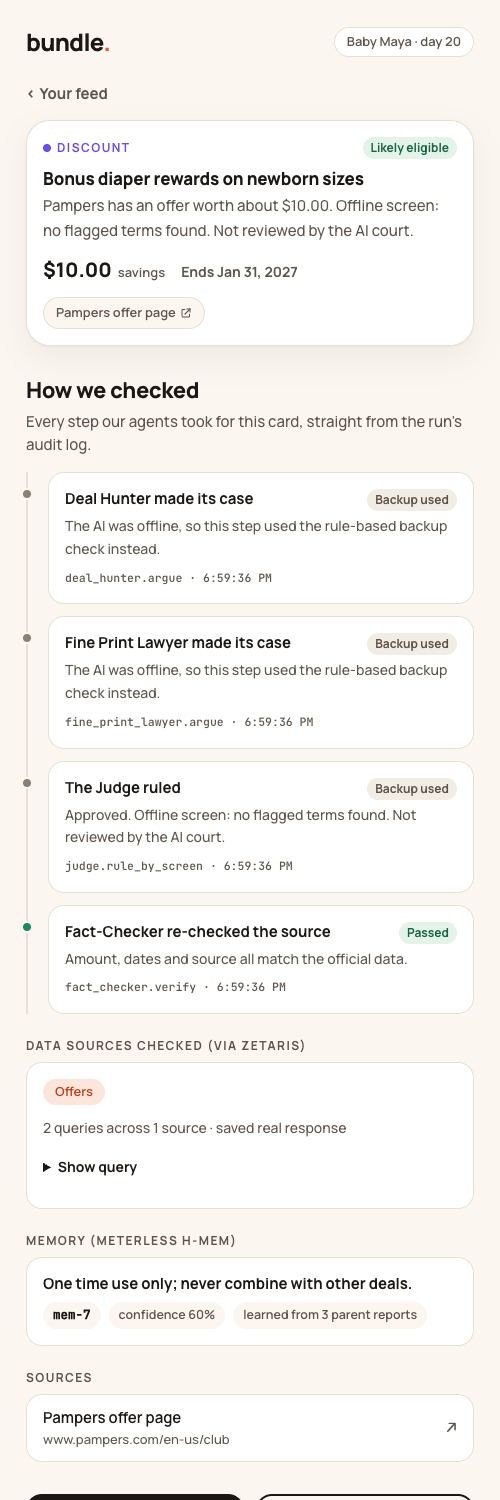
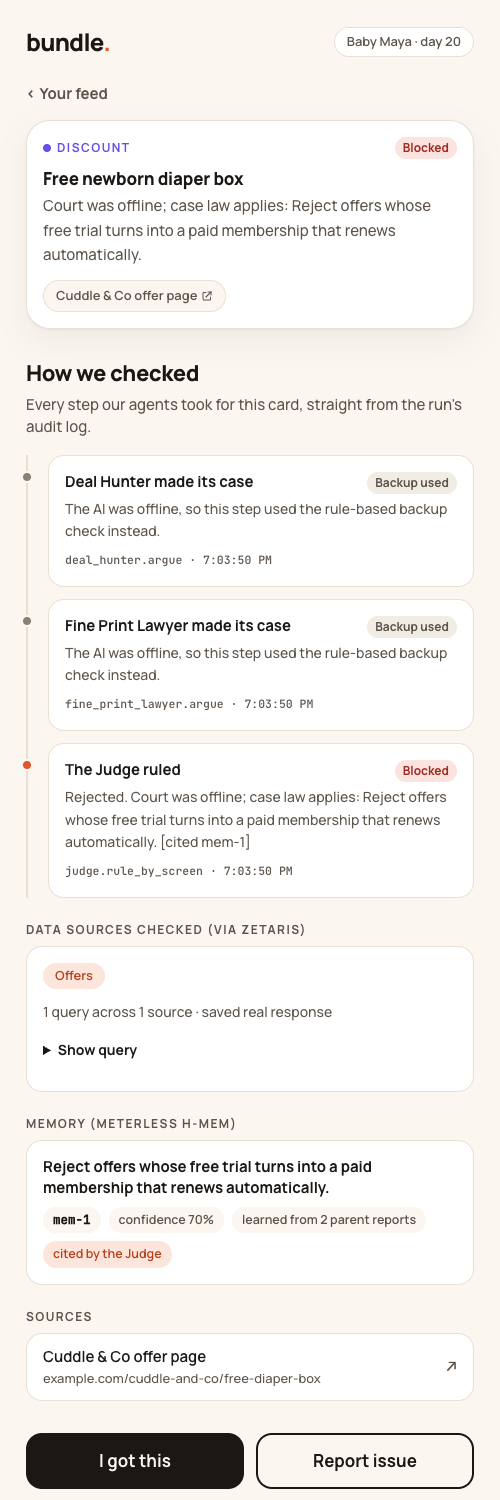
feat: show court-blocked offers (We caught these for you); sample mode never calls or writes live Zetaris

diff --git a/client/src/components/HowWeCheckedSections.tsx b/client/src/components/HowWeCheckedSections.tsx
@@ -1,6 +1,7 @@
 import type { FeedCard } from '@shared/bundle';
 import type { TraceLine } from '@/lib/bundle';
-import { zetarisForCard, memoryForCard } from '@/lib/howWeChecked';
+import { Link } from 'wouter';
+import { zetarisForCard, memoryForCard, blockedReason } from '@/lib/howWeChecked';
 
 const plural = (n: number, one: string, many: string) => `${n} ${n === 1 ? one : many}`;
 
@@ -53,6 +54,34 @@ export function MemorySection({ card, lines }: { card: FeedCard; lines: TraceLin
           </li>
         ))}
       </ul>
+    </section>
+  );
+}
+
+/** Collapsed "We caught these for you": offers the Fine Print Court rejected, with the learned rule it cited. Renders nothing when there are none. */
+export function CaughtForYou({ blocked, lines, href }: { blocked: FeedCard[]; lines: TraceLine[]; href: (id: string) => string }) {
+  if (blocked.length === 0) return null;
+  return (
+    <section className="mt-7" aria-label="We caught these for you" data-testid="caught-section">
+      <details className="rounded-2xl border border-line bg-paper px-4">
+        <summary className="flex min-h-[56px] cursor-pointer items-center justify-between gap-3 text-[16px] font-bold text-ink">
+          <span>We caught these for you</span>
+          <span className="rounded-full bg-[#FBE3E0] px-2.5 py-0.5 text-[13px] font-bold text-[#9E2A21]">{blocked.length}</span>
+        </summary>
+        <p className="text-[14px] text-ink-2">Offers our Fine Print Court blocked. They are not counted in your totals.</p>
+        <ul className="mt-2 space-y-3 pb-4">
+          {blocked.map((c) => (
+            <li key={c.id} className="rounded-2xl border border-line bg-cream p-3">
+              <Link href={href(c.id)} className="block min-h-[44px]">
+                <span className="block text-[15px] font-bold leading-snug text-ink">{c.title}</span>
+                <span className="mt-1 block text-[14px] leading-relaxed text-ink-2">{blockedReason(c)}</span>
+                <span className="mt-1 block text-[13px] font-bold text-coral-deep">See how we checked ›</span>
+              </Link>
+              <MemorySection card={c} lines={lines} />
+            </li>
+          ))}
+        </ul>
+      </details>
     </section>
   );
 }

diff --git a/client/src/lib/__tests__/howWeChecked.test.tsx b/client/src/lib/__tests__/howWeChecked.test.tsx
@@ -1,6 +1,6 @@
 import type { FeedCard } from '@shared/bundle';
 import type { TraceLine } from '../bundle';
-import { sourceNames, redactSql, zetarisForCard, memoryForCard } from '../howWeChecked';
+import { sourceNames, redactSql, zetarisForCard, memoryForCard, blockedReason } from '../howWeChecked';
 
 const card = (id: string, kind: FeedCard['kind']): FeedCard => ({ id, kind, title: id, body: '', amountCents: null, deadline: null, verdict: 'verified', sources: [], traceId: '' });
 let n = 0;
@@ -85,5 +85,22 @@ describe('memoryForCard', () => {
     expect(memoryForCard(card('recall-cpsc-1', 'recall'), base)).toEqual([]);
     expect(memoryForCard(card('discount-5', 'discount'), base)).toEqual([]);
     expect(memoryForCard(card('discount-1190', 'discount'), [line('memory', 'rule_recalled', 'offer 1190', 'garbage')])).toEqual([]);
+  });
+});
+
+describe('blocked offers', () => {
+  const lines = [
+    z('SELECT id, title FROM bundle_pg.v_judge_offers ORDER BY id'),
+    line('memory', 'rule_recalled', 'offer 1190', 'mem-1|0.70|2|Reject offers whose free trial auto-renews.'),
+    line('judge', 'rule_by_screen', 'offer 1190', 'reject: x [cited mem-1]', { status: 'blocked' }),
+  ];
+  const blocked = { ...card('blocked-1190', 'discount'), verdict: 'blocked' as const, body: 'Court was offline; case law applies: Reject offers whose free trial auto-renews. More text.' };
+  it('finds the cited rule and the Zetaris offers source for a blocked-N card', () => {
+    expect(memoryForCard(blocked, lines)).toEqual([{ id: 'mem-1', text: 'Reject offers whose free trial auto-renews.', confidence: 0.7, reports: 2, cited: true }]);
+    expect(zetarisForCard(blocked, lines)!.sources).toEqual(['Offers']);
+  });
+  it('gives a one-line plain reason', () => {
+    expect(blockedReason(blocked)).toBe('A rule parents taught us applies: Reject offers whose free trial auto-renews.');
+    expect(blockedReason({ ...blocked, body: 'x'.repeat(300) }).length).toBeLessThanOrEqual(120);
   });
 });

diff --git a/client/src/lib/howWeChecked.ts b/client/src/lib/howWeChecked.ts
@@ -34,7 +34,7 @@ function cardKeyPatterns(card: FeedCard): RegExp[] {
   const id = card.id;
   let m: RegExpMatchArray | null;
   if ((m = id.match(/^recall-cpsc-(\d+)$/))) return [new RegExp(`cpsc_recalls\\b[^;]*\\bRecallID\\s*=\\s*${m[1]}\\b`, 'i')];
-  if ((m = id.match(/^discount-(\d+)$/))) return [new RegExp(`v_judge_offers\\s+WHERE\\s+id\\s*=\\s*${m[1]}\\b`, 'i')];
+  if ((m = id.match(/^(?:discount|blocked)-(\d+)$/))) return [new RegExp(`v_judge_offers\\s+WHERE\\s+id\\s*=\\s*${m[1]}\\b`, 'i')];
   if ((m = id.match(/^benefit-(.+)$/))) return [new RegExp(`benefit_rules\\s+WHERE\\s+code\\s*=\\s*'${esc(m[1])}'`, 'i')];
   if ((m = id.match(/^clawback-(?:fsa|price)-(.+)$/))) return [new RegExp(`v_clawback_tx\\s+WHERE\\s+id\\s*=\\s*'${esc(m[1])}'`, 'i')];
   return [];
@@ -79,7 +79,7 @@ export interface MemoryRuleView { id: string; text: string; confidence: number; 
 
 /** Learned rules recalled for a discount card's offer (from the memory lines the court logs). */
 export function memoryForCard(card: FeedCard, lines: TraceLine[]): MemoryRuleView[] {
-  const m = card.id.match(/^discount-(\d+)$/);
+  const m = card.id.match(/^(?:discount|blocked)-(\d+)$/);
   if (!m) return [];
   const cited = new Set<string>();
   for (const l of lines) {
@@ -98,4 +98,12 @@ export function memoryForCard(card: FeedCard, lines: TraceLine[]): MemoryRuleVie
     out.set(parts[0], { id: parts[0], text: parts.slice(3).join('|'), confidence, reports, cited: cited.has(parts[0]) });
   }
   return [...out.values()];
+}
+
+/** One plain line saying why the court blocked an offer. */
+export function blockedReason(card: FeedCard): string {
+  const one = card.body.replace(/^Court was offline;\s*/i, '').replace(/^case law applies:\s*/i, 'A rule parents taught us applies: ');
+  const first = one.split(/(?<=[.!?])\s/)[0] ?? one;
+  const text = first.charAt(0).toUpperCase() + first.slice(1);
+  return text.length > 120 ? `${text.slice(0, 117)}…` : text;
 }

diff --git a/client/src/components/__tests__/HowWeCheckedSections.test.tsx b/client/src/components/__tests__/HowWeCheckedSections.test.tsx
@@ -2,7 +2,7 @@ import React from 'react';
 import { render, screen, cleanup } from '@testing-library/react';
 import type { FeedCard } from '@shared/bundle';
 import type { TraceLine } from '@/lib/bundle';
-import { ZetarisSection, MemorySection } from '../HowWeCheckedSections';
+import { ZetarisSection, MemorySection, CaughtForYou } from '../HowWeCheckedSections';
 
 afterEach(cleanup);
 let n = 0;
@@ -51,6 +51,22 @@ describe('MemorySection', () => {
   });
   it('renders nothing without a rule for this card', () => {
     const { container } = render(<MemorySection card={card('discount-1191', 'discount')} lines={trace} />);
+    expect(container.innerHTML).toBe('');
+  });
+});
+
+describe('CaughtForYou', () => {
+  const blocked: FeedCard = { ...card('blocked-1190', 'discount'), title: 'Free newborn diaper box', verdict: 'blocked', body: 'Court was offline; case law applies: Reject trials that auto-renew.' };
+  it('lists blocked offers collapsed, with a link and the cited rule', () => {
+    const { container } = render(<CaughtForYou blocked={[blocked]} lines={trace} href={(id) => `/card/${id}`} />);
+    expect(container.querySelector('details')!.hasAttribute('open')).toBe(false);
+    expect(screen.getByText('We caught these for you')).toBeTruthy();
+    expect(screen.getByRole('link', { name: /Free newborn diaper box/ }).getAttribute('href')).toBe('/card/blocked-1190');
+    expect(screen.getByText('mem-1')).toBeTruthy();
+    expect(screen.getByText('Memory (Meterless H-MEM)')).toBeTruthy();
+  });
+  it('renders nothing when nothing was blocked', () => {
+    const { container } = render(<CaughtForYou blocked={[]} lines={trace} href={(id) => id} />);
     expect(container.innerHTML).toBe('');
   });
 });

diff --git a/server/agents/finePrintCourt.ts b/server/agents/finePrintCourt.ts
@@ -1,5 +1,6 @@
 import { askJson } from '../adapters/llm';
 import { col, quoteInt, InvalidId, addDays, today, fmtUsd } from './sql';
+import type { FeedCard } from '../../shared/bundle';
 import type { AgentContext, Candidate, CourtRuling } from './types';
 import { offlineProblem } from './offerScreen';
 
@@ -132,6 +133,16 @@ function toCandidate(ctx: AgentContext, offer: Offer, ruling: CourtRuling, retry
   };
 }
 
+/** A rejected offer as a card for the "We caught these for you" list. No amount, so it can never be added into a total. */
+function toBlockedCard(ctx: AgentContext, offer: Offer, ruling: CourtRuling): FeedCard {
+  const traceId = ctx.trace.lines().filter((l) => l.agent_name === 'judge' && l.input_summary === `offer ${offer.id}`).pop()?.trace_id ?? '';
+  return {
+    id: `blocked-${offer.id}`, kind: 'discount', title: offer.title, body: ruling.reason,
+    amountCents: null, deadline: null, verdict: 'blocked',
+    sources: offer.sourceUrl ? [{ label: `${offer.store} offer page`, url: offer.sourceUrl }] : [], traceId,
+  };
+}
+
 /** Is `needle` a whole word or phrase in `hay` (a plural -s/-es is fine: "diaper" matches "diapers", "dia" does not match "diaper")? */
 function wholeWord(needle: string, hay: string): boolean {
   const esc = needle.replace(/[.*+?^${}()|[\]\\]/g, '\\$&');
@@ -163,6 +174,7 @@ export async function judgeOffers(
   for (const offer of picked) {
     const { ruling, usedFallback } = await judgeOne(ctx, offer, '');
     if (ruling.verdict === 'approve') out.push(toCandidate(ctx, offer, ruling, 0, sql, usedFallback));
+    else ctx.blocked?.push(toBlockedCard(ctx, offer, ruling));
   }
   return out;
 }

diff --git a/client/src/pages/Feed.tsx b/client/src/pages/Feed.tsx
@@ -3,6 +3,7 @@ import { Link, useParams } from 'wouter';
 import AppShell from '@/components/AppShell';
 import ReceiptCard from '@/components/ReceiptCard';
 import FeedCardView from '@/components/FeedCardView';
+import { CaughtForYou } from '@/components/HowWeCheckedSections';
 import { KIND_META, UNCHECKED_DEALS_SECTION, api, demoDateLabel, describeLine, familyChip, groupCards, loadRun, saveRun, type SavedRun, type TraceLine } from '@/lib/bundle';
 import { pollRun } from '@/lib/poll';
 import { cn } from '@/lib/utils';
@@ -128,6 +129,12 @@ export default function Feed() {
   const chip = familyChip(family, today);
   const demoLabel = demoDateLabel(run?.demoDate ?? chipInfo.demoDate, today);
 
+  // The finished run's full audit log (the polling copy may be partial); only needed for the "We caught these" detail.
+  const [doneLines, setDoneLines] = useState<TraceLine[]>([]);
+  useEffect(() => {
+    if (run?.result.blocked?.length) api.trace(run.runId).then(setDoneLines).catch(() => {});
+  }, [run?.runId]);
+
   const grouped = useMemo(() => (run ? groupCards(run.result.cards) : null), [run]);
 
   if (error) {
@@ -175,6 +182,8 @@ export default function Feed() {
           </div>
         </section>
       ))}
+
+      <CaughtForYou blocked={result.blocked ?? []} lines={doneLines} href={href} />
 
       <Link
         href="/smarter"

diff --git a/server/__tests__/orchestrator.test.ts b/server/__tests__/orchestrator.test.ts
@@ -197,6 +197,20 @@ describe('runBundle', () => {
     expect((court.judgeOffers as jest.Mock).mock.calls[0][1].includeGeneral).toBe(true);
   });
 
+  it('exposes court-blocked offers in result.blocked, outside cards and the Receipt', async () => {
+    const { deps } = setup();
+    const withoutBlocked = await runBundle('maya', deps);
+    (court.judgeOffers as jest.Mock).mockImplementation(async (ctx: any) => {
+      ctx.blocked.push({ id: 'blocked-9', kind: 'discount', title: 'Trap box', body: 'Auto-renews.', amountCents: null, deadline: null, verdict: 'blocked', sources: [], traceId: 't' });
+      return [disc(1), disc(2), disc(3)];
+    });
+    const r = await runBundle('maya', deps);
+    expect(r.blocked!.map((c) => c.id)).toEqual(['blocked-9']);
+    expect(r.cards.some((c) => c.verdict === 'blocked' || c.id === 'blocked-9')).toBe(false);
+    expect(r.receipt).toEqual(withoutBlocked.receipt);
+    expect(JSON.stringify(r.blocked)).not.toMatch(/income/i);
+  });
+
   it('a candidate failing fact-check 3 times is dropped after 2 retries and traced as blocked', async () => {
     const bad = ben('bad', { amountCents: 999 });
     const { deps, dir } = setup({ verify: (c) => (c.id === 'benefit-bad' ? { ok: false, reason: 'amount mismatch', corrected: { amountCents: 1 } } : { ok: true, reason: null, corrected: null }) });

diff --git a/server/agents/orchestrator.ts b/server/agents/orchestrator.ts
@@ -188,7 +188,8 @@ export async function runBundle(familyId: string, deps: RunDeps): Promise<Bundle
   // Every Zetaris query and memory call lands in this run's trace (test fakes without withTrace are used as-is).
   const z = typeof deps.z.withTrace === 'function' ? deps.z.withTrace(trace) : deps.z;
   const memory = typeof deps.memory.withTrace === 'function' ? deps.memory.withTrace(trace) : deps.memory;
-  const ctx: AgentContext = { runId, family, z, llm: deps.llm, memory, trace, today: deps.today };
+  const blocked: FeedCard[] = [];
+  const ctx: AgentContext = { runId, family, z, llm: deps.llm, memory, trace, today: deps.today, blocked };
   const maxRetries = /^\d+$/.test(process.env.MAX_RETRIES ?? '') ? Number(process.env.MAX_RETRIES) : 2;
   let banner: string | null = null;
   const log = (action: string, input: string, output: string, status: 'ok' | 'retry' | 'blocked' | 'error' | 'fallback', retry = 0) =>
@@ -281,5 +282,5 @@ export async function runBundle(familyId: string, deps: RunDeps): Promise<Bundle
   } catch (e) {
     log('export_ledger', runId, `failed: ${(e as Error).message}`, 'error');
   }
-  return { familyId, runId, receipt, cards, banner };
+  return { familyId, runId, receipt, cards, banner, blocked };
 }

diff --git a/client/src/pages/CardDetail.tsx b/client/src/pages/CardDetail.tsx
@@ -55,7 +55,7 @@ export default function CardDetail() {
       .catch(() => {})
       .finally(() => setLooking(false));
   }, [looking, runParam]);
-  const card = id === PLAID_TILE.id ? PLAID_TILE : run?.result.cards.find((c) => c.id === id) ?? null;
+  const card = id === PLAID_TILE.id ? PLAID_TILE : run?.result.cards.find((c) => c.id === id) ?? run?.result.blocked?.find((c) => c.id === id) ?? null;
   const [lines, setLines] = useState<TraceLine[] | null>(null);
   const [traceError, setTraceError] = useState(false);
   const [sent, setSent] = useState<'got_it' | 'issue' | null>(null);
@@ -172,7 +172,7 @@ export default function CardDetail() {
         )}
       </section>
 
-      {card.kind !== 'coming_soon' && (
+      {card.kind !== 'coming_soon' && card.verdict !== 'blocked' && (
         <section className="mt-8" aria-label="Your feedback">
           {sent ? (
             <p role="status" className="rounded-2xl bg-[#E3F3EA] px-4 py-4 text-[15px] font-semibold text-[#17643F]">

diff --git a/server/__tests__/finePrintCourt.test.ts b/server/__tests__/finePrintCourt.test.ts
@@ -63,6 +63,18 @@ describe('fine print court', () => {
     expect(l.output_summary).toContain('free trials that auto-renew');
   });
 
+  it('hands rejected offers to ctx.blocked as amount-free "blocked" cards (no family data)', async () => {
+    const llm = new FakeGenerator(['pro', 'con', REJECT]);
+    const { ctx, trace } = setup([trap], llm);
+    ctx.blocked = [];
+    expect(await judgeOffers(ctx, IN)).toEqual([]);
+    expect(ctx.blocked).toHaveLength(1);
+    const b = ctx.blocked[0];
+    expect(b).toMatchObject({ id: `blocked-${trap.id}`, kind: 'discount', verdict: 'blocked', amountCents: null, title: trap.title });
+    expect(b.traceId).toBe(trace.lines().find((l) => l.agent_name === 'judge')!.trace_id);
+    expect(JSON.stringify(b)).not.toMatch(/income/i);
+  });
+
   it('makes exactly 3 LLM calls and 3 trace lines per offer', async () => {
     const llm = new FakeGenerator(['pro', 'con', APPROVE]);
     const { ctx, trace } = setup([offer(1), offer(2)], llm);

diff --git a/server/__tests__/zetaris.test.ts b/server/__tests__/zetaris.test.ts
@@ -70,6 +70,13 @@ describe('ZetarisClient', () => {
     expect(offline).not.toHaveBeenCalled();
   });
 
+  it('sample mode: a cache miss is "unavailable", never calls live Zetaris and never writes the cache', async () => {
+    const fetchFn = jest.fn().mockResolvedValue(jsonResponse({ headers: ['n'], data: [['9']] }));
+    await expect(make(fetchFn, { sampleMode: true }).runQuery('SELECT 9')).rejects.toBeInstanceOf(ZetarisUnavailable);
+    expect(fetchFn).not.toHaveBeenCalled();
+    expect(fs.readdirSync(dir)).toEqual([]);
+  });
+
   it('throws ZetarisUnavailable on 5xx with no cache', async () => {
     const fetchFn = jest.fn().mockResolvedValue(jsonResponse({}, 503));
     await expect(make(fetchFn).runQuery('SELECT 5')).rejects.toBeInstanceOf(ZetarisUnavailable);

diff --git a/client/src/lib/bundle.ts b/client/src/lib/bundle.ts
@@ -223,7 +223,7 @@ export function traceForCard(card: FeedCard, lines: TraceLine[]): TraceLine[] {
     const prev = lines[own - 1];
     if (prev && prev.agent_name === lines[own].agent_name && prev.action === 'explain') keep.add(prev.trace_id);
   }
-  const offerId = card.kind === 'discount' ? card.id.replace(/^discount-/, '') : null;
+  const offerId = card.kind === 'discount' ? card.id.replace(/^(?:discount|blocked)-/, '') : null;
   for (const l of lines) {
     if (l.agent_name === 'fact_checker' && l.input_summary.includes(`card ${card.id} `)) keep.add(l.trace_id);
     if (offerId && l.input_summary === `offer ${offerId}`) keep.add(l.trace_id);
